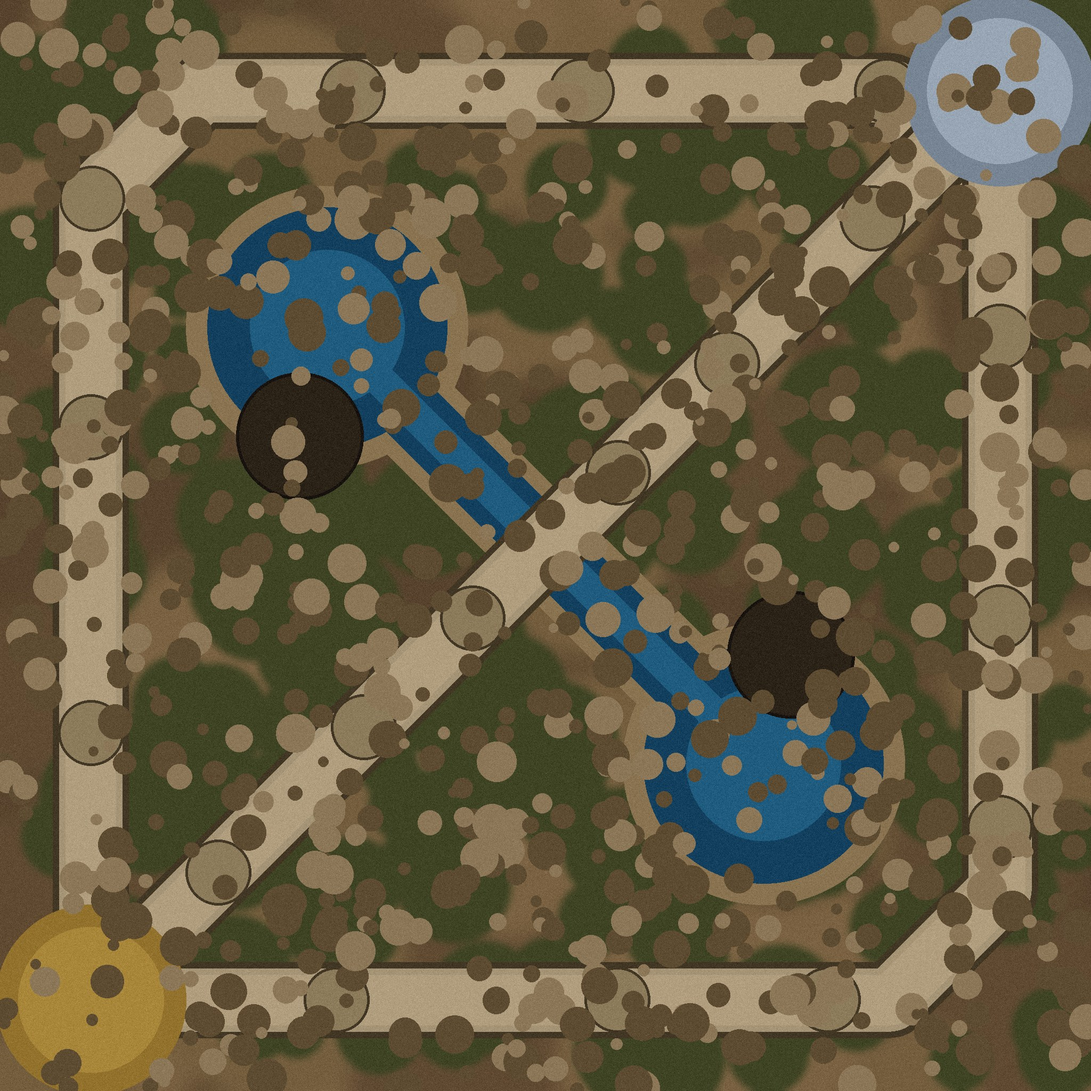
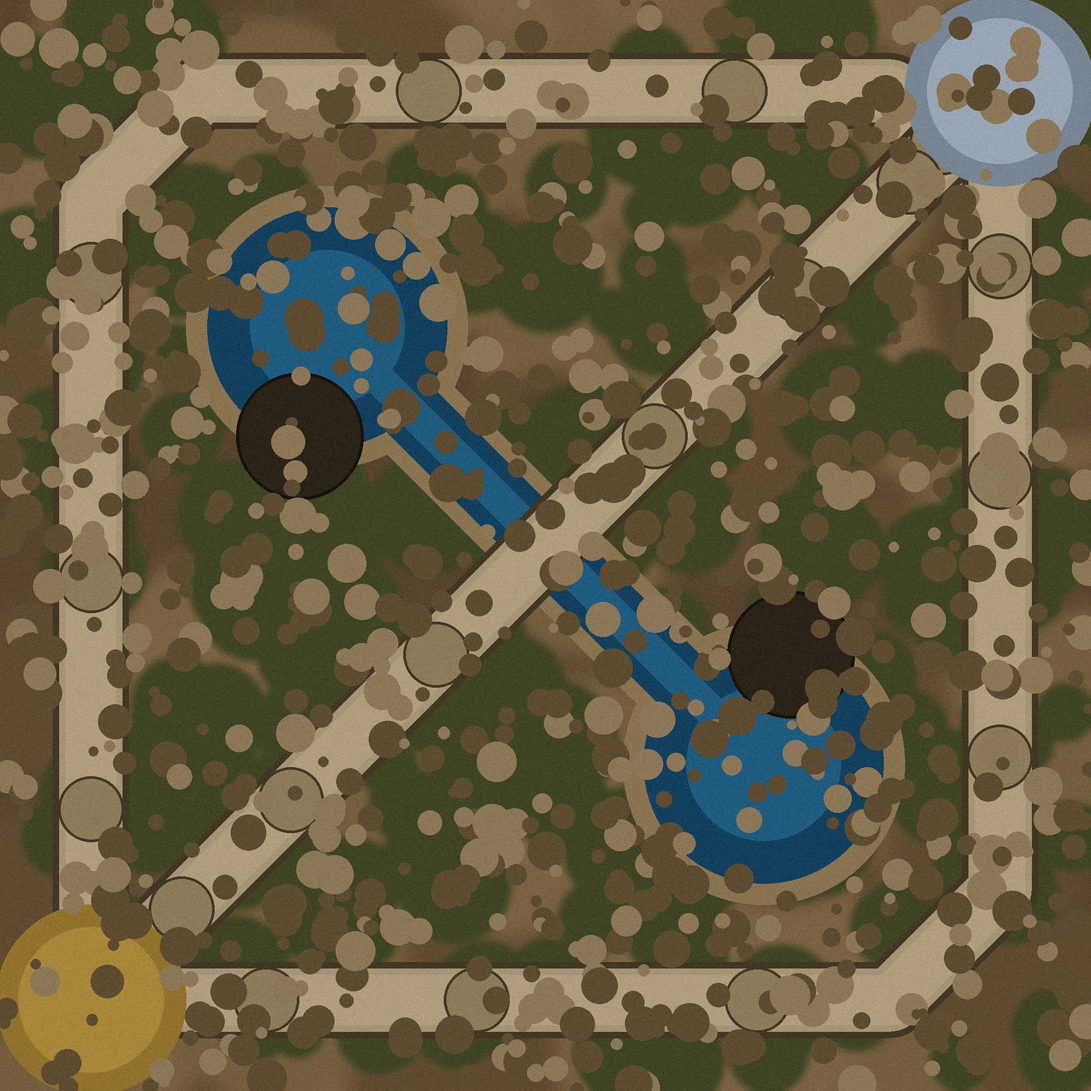
Uncross the towers: each court keeps its own half (Gate 10 / Inner 22 / Outer 38)

diff --git a/ArenaOfKemet/Assets/Editor/ArenaSceneBuilder.cs b/ArenaOfKemet/Assets/Editor/ArenaSceneBuilder.cs
@@ -70,13 +70,16 @@ public static class ArenaSceneBuilder
         Prim(PrimitiveType.Cube, "OlympusBase", root, new Vector3(50, 0.05f, 50), new Vector3(17, 0.1f, 17), stoneOly);
 
         // Towers stand THREE DEEP on every road, as in the maker's
-        // maps: Outer at 58% of the march, Inner at 30%, and the GATE
-        // at 14% — the last stone before the heart of the base.
+        // maps — and each court keeps to its OWN half of the march:
+        // Gate at 10%, Inner at 22%, Outer at 38%. (An earlier build
+        // measured the Outer against the WHOLE road and planted the
+        // two courts' front towers in each other's land — the maker's
+        // eye caught it from above. Never again.)
         for (int i = 0; i < 3; i++)
         {
             var path = GameManager.Lanes[i];
-            Vector3 ko = PathPoint(path, 0.58f), ki = PathPoint(path, 0.30f), kg = PathPoint(path, 0.14f);
-            Vector3 oo = PathPoint(path, 0.42f), oi = PathPoint(path, 0.70f), og = PathPoint(path, 0.86f);
+            Vector3 ko = PathPoint(path, 0.38f), ki = PathPoint(path, 0.22f), kg = PathPoint(path, 0.10f);
+            Vector3 oo = PathPoint(path, 0.62f), oi = PathPoint(path, 0.78f), og = PathPoint(path, 0.90f);
             BuildStructure(root, "KemetTower_" + laneName[i] + "_Outer", Team.Kemet, false, ko.x, ko.z, goldKemet);
             BuildStructure(root, "KemetTower_" + laneName[i] + "_Inner", Team.Kemet, false, ki.x, ki.z, goldKemet);
             BuildStructure(root, "KemetTower_" + laneName[i] + "_Gate", Team.Kemet, false, kg.x, kg.z, goldKemet);

diff --git a/paint_ground.py b/paint_ground.py
@@ -76,7 +76,7 @@ def path_point(pts, frac):
     return pts[-1]
 
 for lane in LANES:
-    for f in (0.14, 0.30, 0.42, 0.58, 0.70, 0.86):
+    for f in (0.10, 0.22, 0.38, 0.62, 0.78, 0.90):
         x, z = path_point(lane, f)
         disc(x, z, 3.6, (140, 124, 92))
         d.ellipse([px(x - 3.6), py(z + 3.6), px(x + 3.6), py(z - 3.6)],
